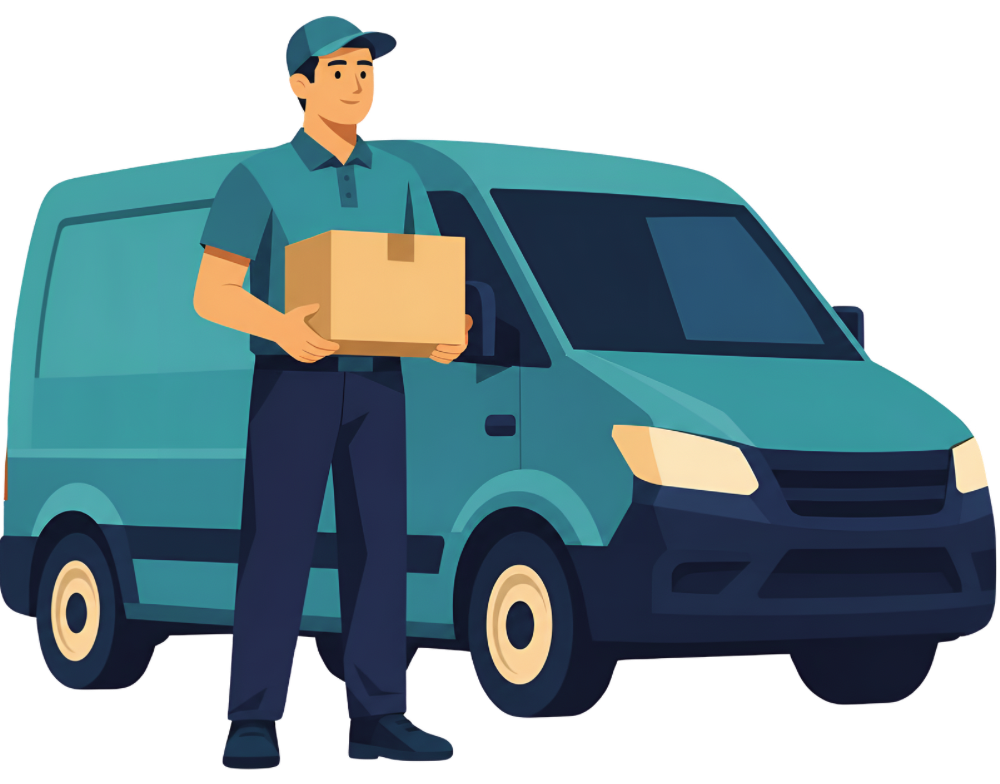
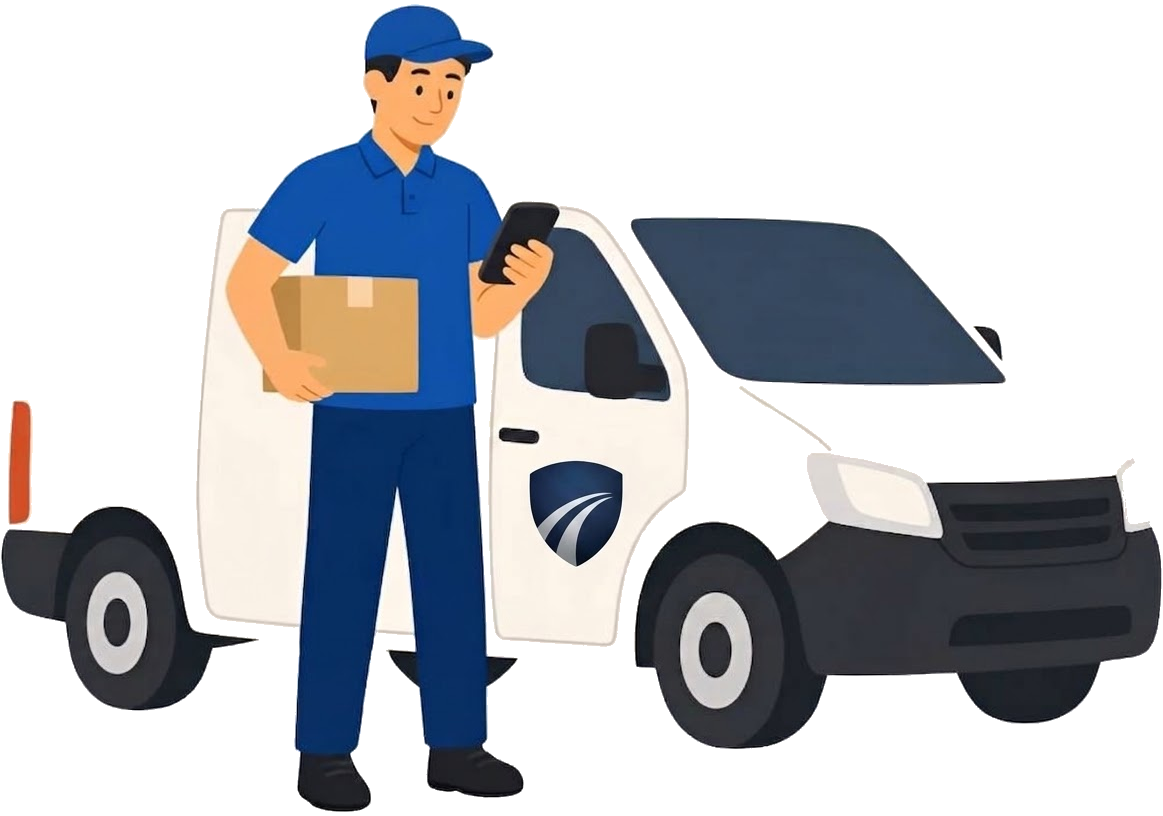
Replace hero illustration with branded van image
Swap the generic courier illustration for the Iron Bridge branded
van with logo on the door. Background removed and aspect ratio
updated to match the new image dimensions.

Claude-Session: https://claude.ai/code/session_01BYWxM8vrx9cyowNG7vrWEE

diff --git a/src/sections/hero.tsx b/src/sections/hero.tsx
@@ -107,7 +107,7 @@ export default function Hero() {
           <SlideEffect
             direction="left"
             isSpring={false}
-            className="relative w-full max-w-[22rem] mx-auto lg:max-w-[30rem] aspect-[1000/784]"
+            className="relative w-full max-w-[22rem] mx-auto lg:max-w-[30rem] aspect-[1163/816]"
           >
             <Image
               src="/brand/hero-van-courier.png"
